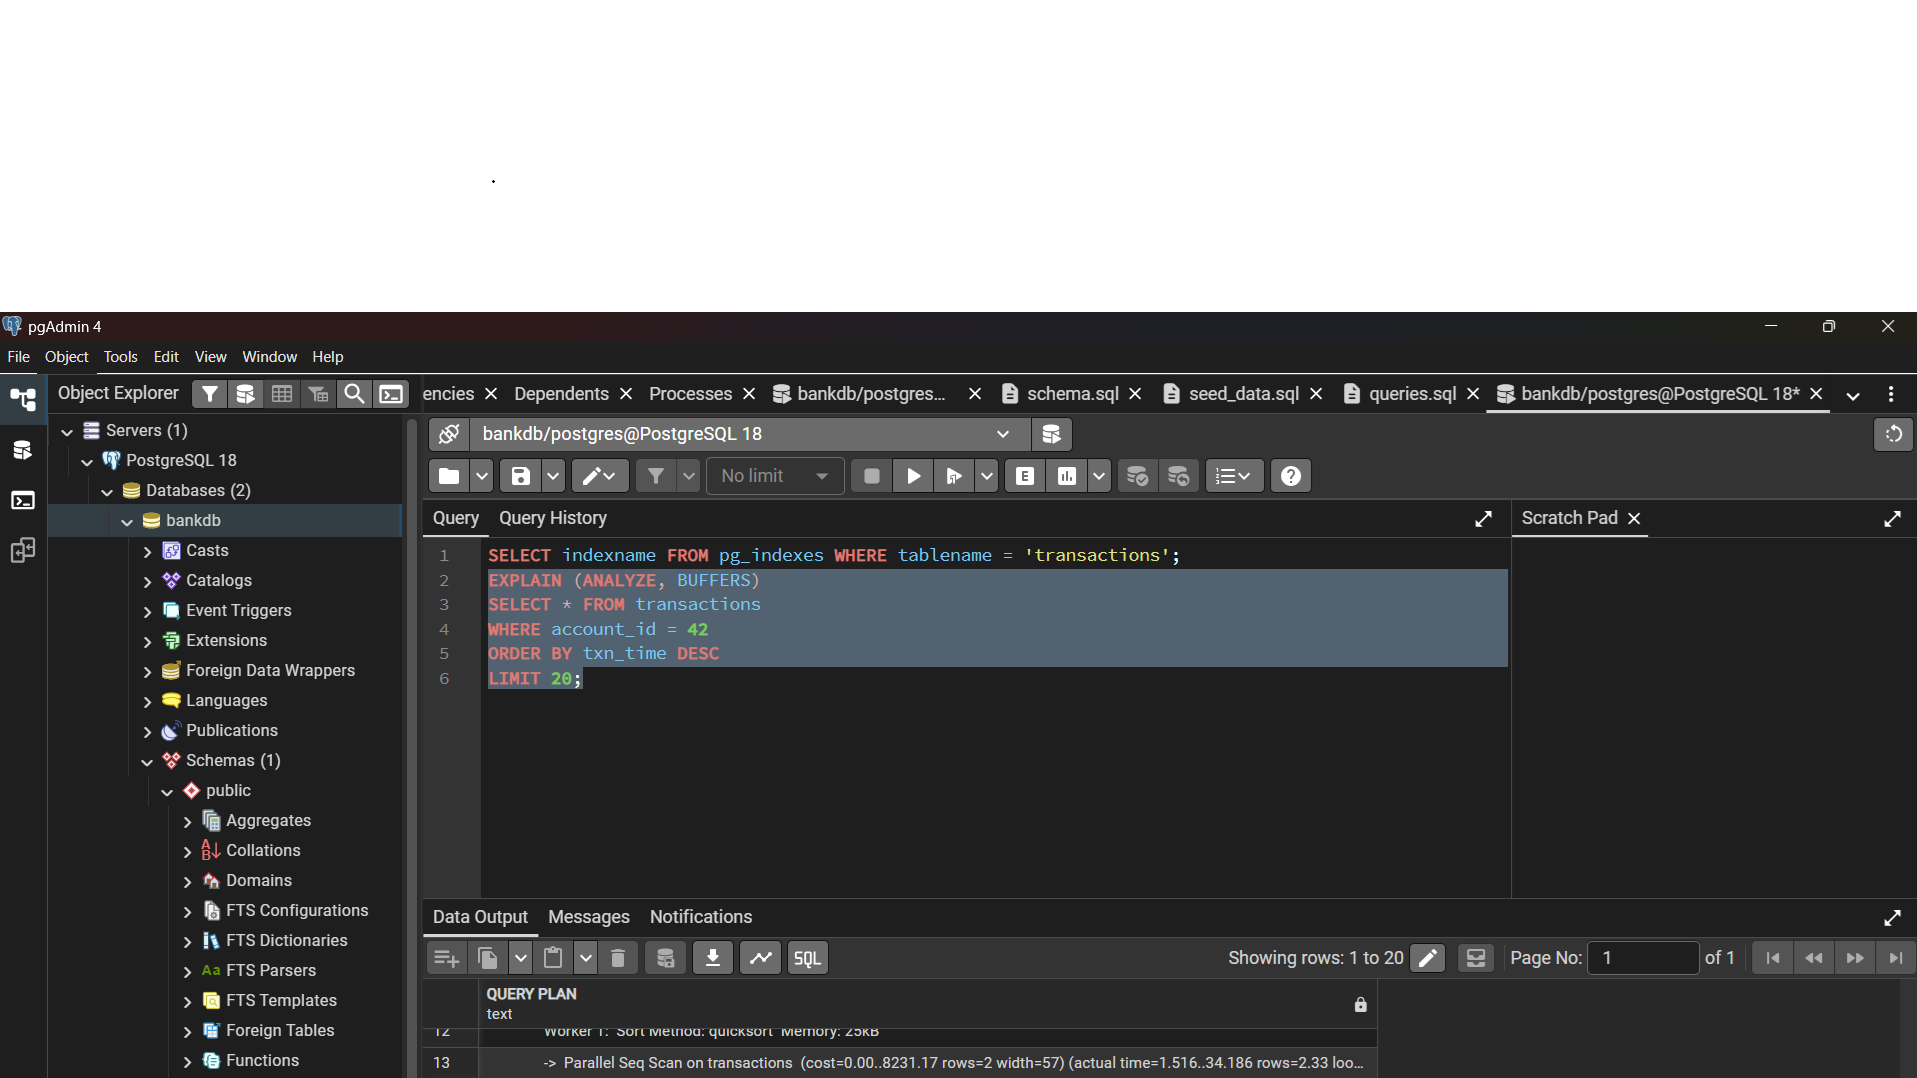
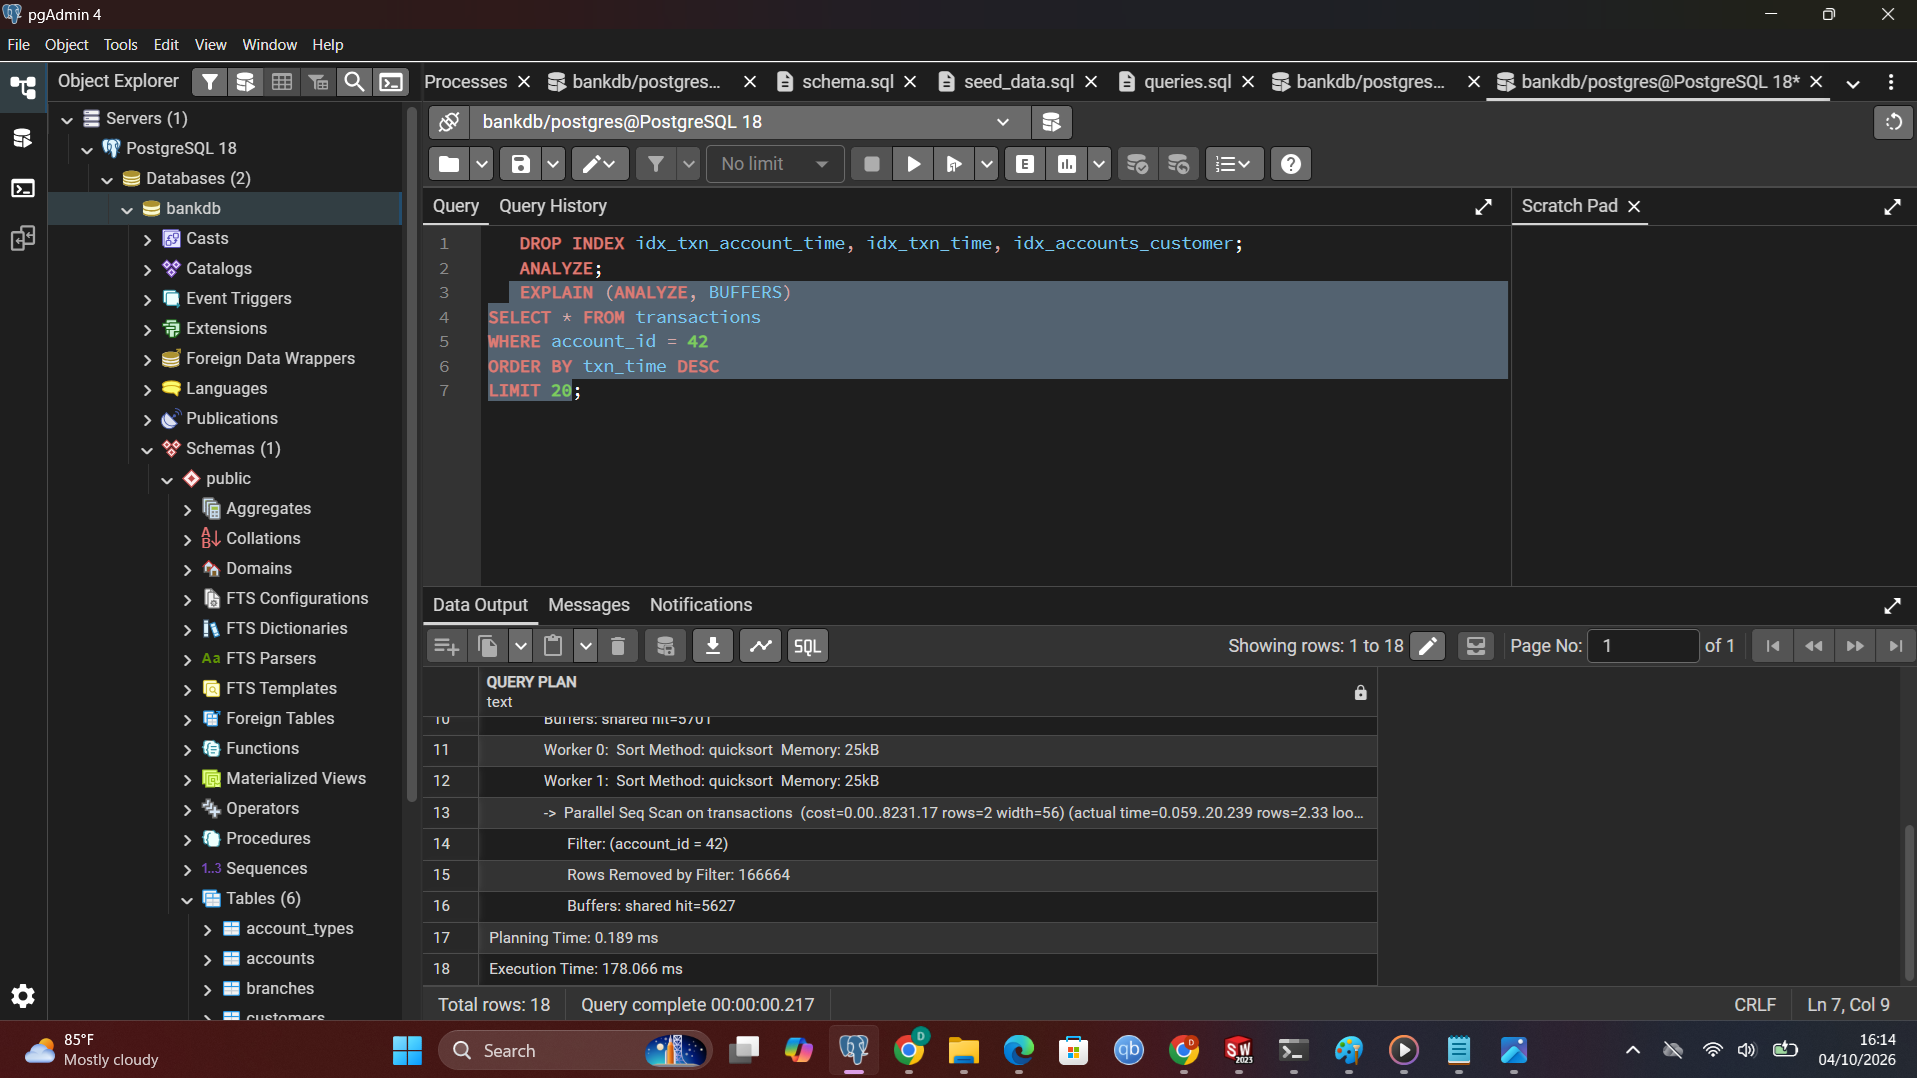
Portfolio 2: add performance analysis and README

diff --git a/portfolio-2-query-optimisation/performance-analysis.md b/portfolio-2-query-optimisation/performance-analysis.md
@@ -1,0 +1,43 @@
+# Performance Analysis - TrustLink Microfinance Bank (simulated)
+
+Database: PostgreSQL 18, `bankdb`. Data is synthetic: 50,000 customers, 80,000 accounts, 500,000 transactions, 100,000 transfers.
+
+Method: I ran `EXPLAIN (ANALYZE, BUFFERS)` on each query with no indexes (before), created indexes, then ran it again (after). Each query was run twice and the second run was recorded, so the first-run cost of loading data from disk does not distort the result. `ANALYZE` was run after the indexes were dropped and after they were created, so the planner had current statistics.
+
+## Results
+
+|Query|Before (ms)|After (ms)|Change|
+|-|-|-|-|
+|Q1: latest transactions of account 42|178.066|0.240|about 742 times faster (99.9% less time)|
+|Q2: deposits per branch, last 30 days|159.681|87.853|about 1.8 times faster (45% less time)|
+
+## Indexes created
+
+|Index|Definition|Aimed at|
+|-|-|-|
+|idx\_txn\_account\_time|transactions (account\_id, txn\_time DESC)|Q1|
+|idx\_txn\_time|transactions (txn\_time)|Q2|
+|idx\_accounts\_customer|accounts (customer\_id)|joins in Q2|
+
+## Q1: why it improved so much
+
+Before: the plan used a (Parallel) Seq Scan on `transactions`. With no index on `account\_id`, PostgreSQL had to read all 500,000 rows to find the few belonging to account 42, then sort them by time.
+
+After: The index lets PostgreSQL jump straight to account 42's rows, and because the index also stores `txn\_time` in descending order, the rows come out already sorted. Execution time fell from 178.066 ms to 0.240 ms.
+
+Q1 returned 7 rows, not 20, because account 42 has only 7 transactions in the generated data. LIMIT 20 is a maximum, not a guaranteed row count.
+
+## Q2: why it improved less
+
+Q2 reads a large share of the table: only deposits (about a quarter of rows) from the last 30 days (about 8% of the year), and it still has to join to accounts, customers and branches and add up the amounts. The index on `txn\_time` helps PostgreSQL skip the older rows, but a lot of work remains, so the gain is smaller (159.681 ms to 87.853 ms).
+
+Trade-offs of indexing
+
+* Indexes use extra disk space.
+* Every INSERT, UPDATE or DELETE on an indexed table must also update its indexes, so writes become slightly slower. For a bank this is acceptable because reads such as statements are far more frequent than writes to any one account, but indexes should be added for real query patterns, not on every column.
+* Foreign key columns such as `transactions.account\_id` are not indexed automatically in PostgreSQL, which is why Q1 was slow at first.
+
+## Conclusion
+
+The index designed for the exact filter and sort of Q1 gave a dramatic improvement. The broader analytical query Q2 benefited moderately. Reading the execution plan before and after is what showed me where the time was going.
+

diff --git a/portfolio-2-query-optimisation/README.md b/portfolio-2-query-optimisation/README.md
@@ -1,1 +1,40 @@
-# Portfolio 2 - Query Optimisation 
+# \# Portfolio 2 - Query Processing and Optimisation
+
+# 
+
+# Case study: TrustLink Microfinance Bank (simulated)
+
+# 
+
+# \## Files
+
+# \- seed\_data.sql: generates the synthetic data (about 700,000 rows)
+
+# \- queries.sql: five queries (Q1 to Q5)
+
+# \- indexes.sql: the indexes I created
+
+# \- explain-before-q1/q2.txt and explain-after-q1/q2.txt: full plans
+
+# \- performance-analysis.md: results and explanation
+
+# \- Screenshots 01 to 11: evidence
+
+# 
+
+# \## How to run
+
+# 1\. Run schema.sql from Portfolio 1 on bankdb.
+
+# 2\. Run seed\_data.sql.
+
+# 3\. Run queries.sql one query at a time.
+
+# 4\. Run EXPLAIN (ANALYZE, BUFFERS) before and after indexes.sql.
+
+# 
+
+# \## Challenge faced
+
+# i noticed that after running the command twice the execution time changes and gives a different figure, the application sometimes freezes when running index and i had to restart.
+
